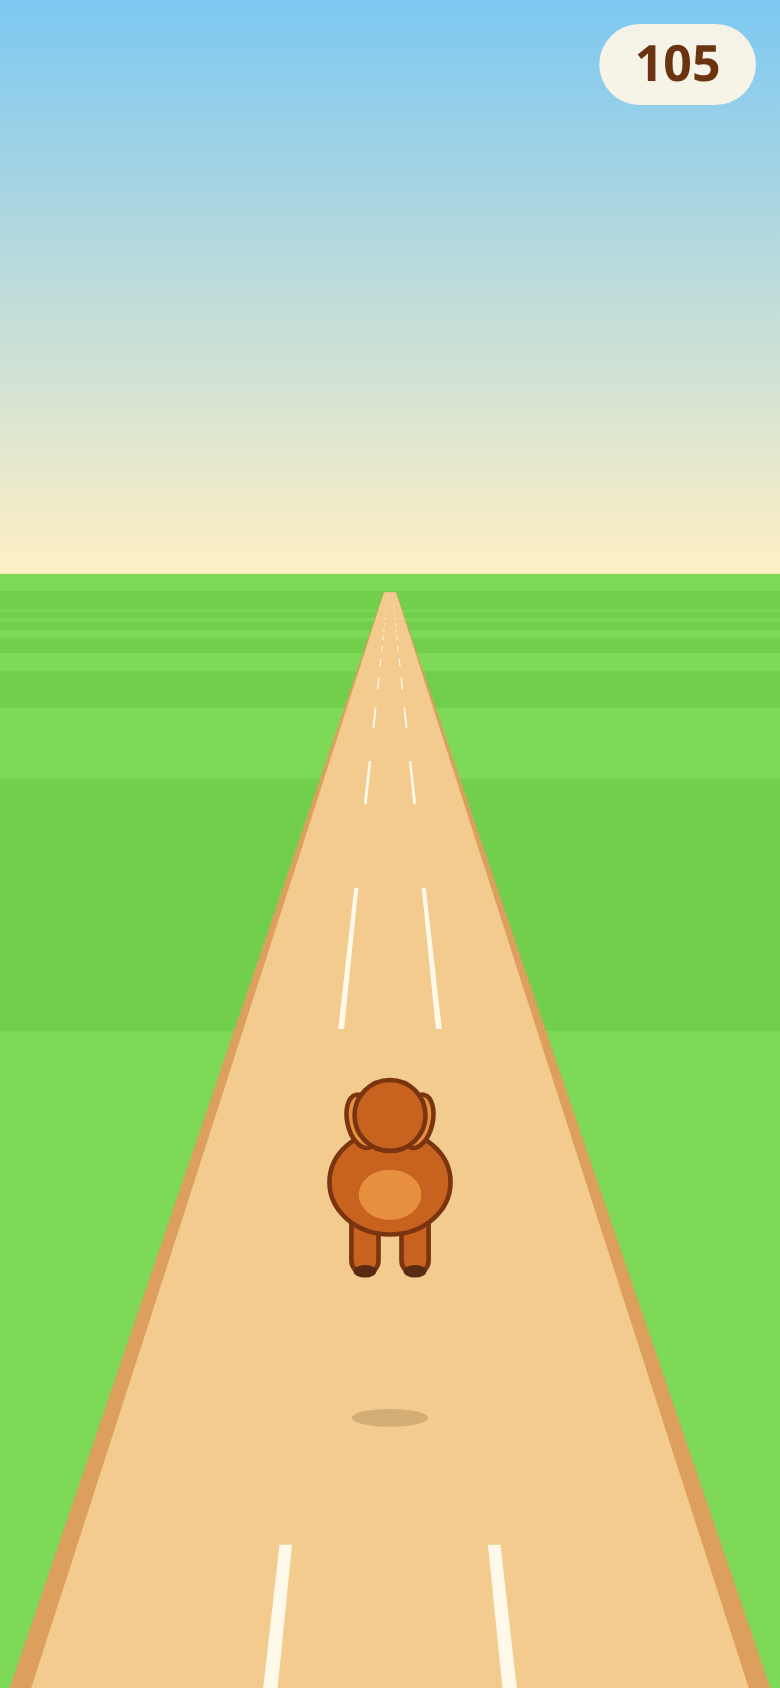
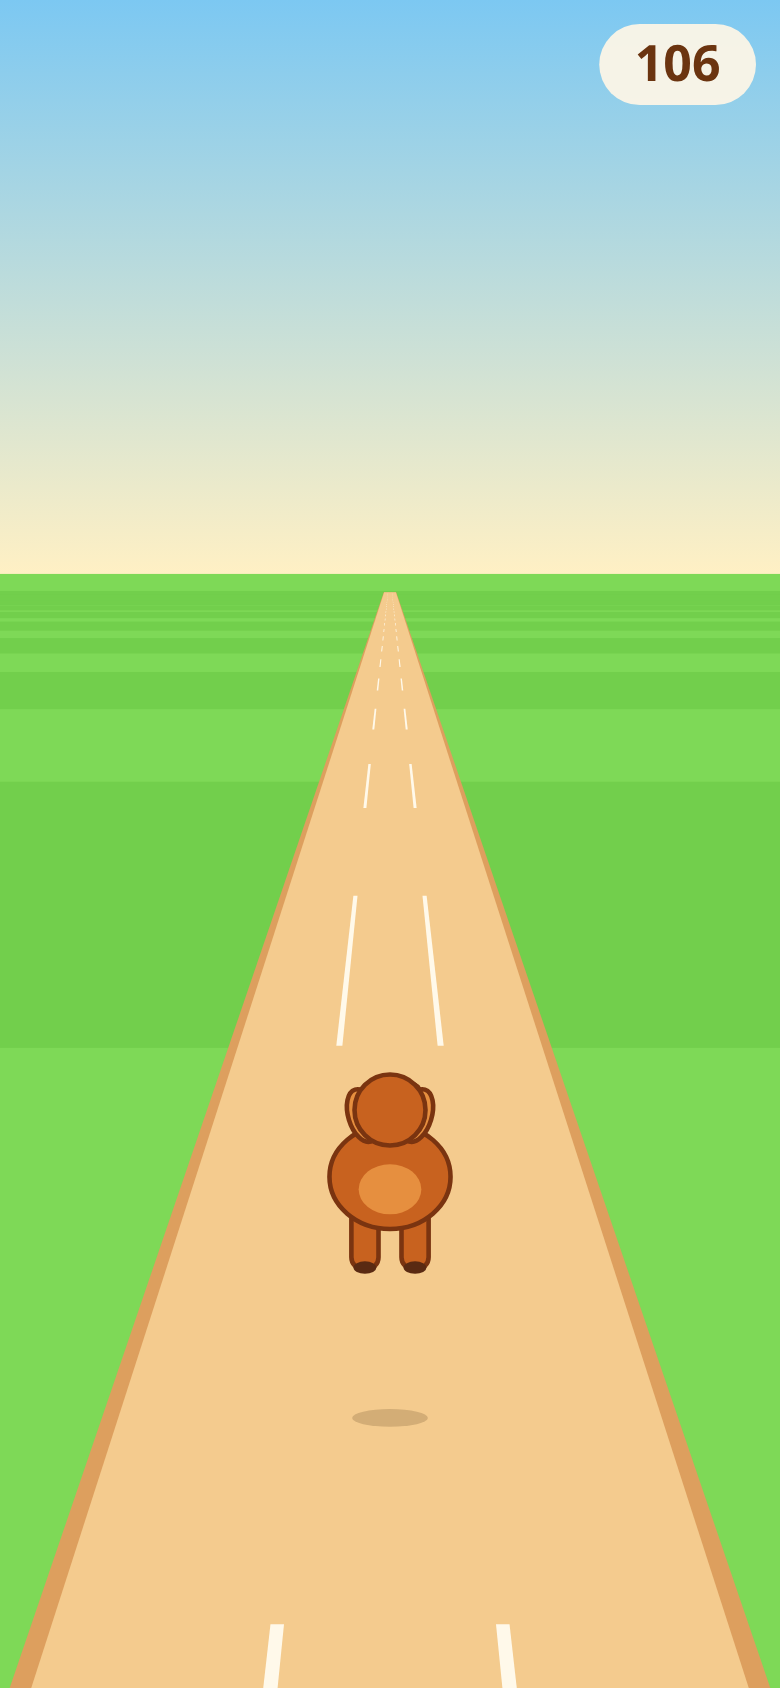
feat: add bone treat lines that add bonus points
Bones spawn in lines of 3-8 in the gaps between obstacle rows, only in
lanes the player can reach, and end early enough to leave the lane
before the next row. Each bone adds 10 points to the live and final
score; counts reset on retry. 90/90 checks pass.

Story: production/epics/caius-run/story-005-treats.md
Design: design/game-brief.md

Claude-Session: https://claude.ai/code/session_018R8R6gKewFaV8M9dz1TTco

diff --git a/src/index.html b/src/index.html
@@ -73,6 +73,18 @@ const CONFIG = {
   spawnAhead: 13,           // rows are generated this far ahead (scale ~0.07, >2 s warning at max speed)
   fadeInDepth: 2,           // obstacles fade in over this much depth after spawning
   despawnBehind: -0.3,      // obstacles are removed once this far behind the camera plane
+  // --- treats (story 005) ---
+  treatLineChance: 0.55,    // chance a gap between two rows gets a bone line
+  treatSpacing: 0.36,       // z between bones in a line
+  treatMinCount: 3,
+  treatMaxCount: 8,
+  treatClearance: 0.35,     // z kept free between a bone and an obstacle row
+  treatValue: 10,           // bonus points per bone
+  treatWidth: 0.36,         // lane widths
+  treatFloat: 0.16,         // hover height, lane widths
+  treatDepth: 0.12,         // pickup depth, z units
+  treatPickupHalfWidth: 0.45, // lane widths
+  treatMissHeight: 0.6,     // jumping higher than this sails over a bone
   // --- score & screens (story 004) ---
   scorePerZ: 10,            // points per z unit travelled (~25/s at start)
   titleScrollFactor: 0.4,   // track drifts at this fraction of base speed behind the title
@@ -138,6 +150,9 @@ const CONFIG = {
     coneStripe: "#fff6e8",
     coneBase: "#d85c1a",
     obstacleOutline: "#5b3415",
+    bone: "#fff4dc",
+    boneShade: "#efd9b0",
+    boneOutline: "#b98a55",
     uiPanel: "#fff6e6",
     uiText: "#6b3410",
     uiTextSoft: "#a0643a",
@@ -192,7 +207,10 @@ function resetRun(seed) {
     grounded: true,
     jumpT: 0,                   // seconds since take-off
     jumpY: 0,                   // height above ground, in lane widths
-    treatPoints: 0,             // bonus points from treats (story 005)
+    treatPoints: 0,             // bonus points from treats
+    treatCount: 0,              // bones collected this run
+    treats: [],                 // { lane, wz } bones not yet collected
+    reach: allLanes(),          // lanes a player can be in after the last spawned row
     seed: s,
     rng: mulberry32(s),
     spawnEnabled: !debug.noSpawn,
@@ -519,6 +537,40 @@ function drawCone(lane, z) {
 
 const OBSTACLE_DRAW = { crate: drawCrate, log: drawLog, cone: drawCone };
 
+/** A floating, gently bobbing bone treat. */
+function drawBone(lane, z, seed) {
+  const C = CONFIG.colors;
+  const p = project(laneToX(lane), z);
+  const u = view.laneW * p.s;
+  const w = CONFIG.treatWidth * u;
+  const bob = Math.sin(state.runPhase * 0.5 + seed * 3) * 0.04 * u;
+  const cy = p.y - CONFIG.treatFloat * u - w * 0.25 + bob;
+  const r = w * 0.17;
+  // shadow
+  ctx.fillStyle = "rgba(60,40,10,0.14)";
+  ctx.beginPath();
+  ctx.ellipse(p.x, p.y, w * 0.38, w * 0.08, 0, 0, Math.PI * 2);
+  ctx.fill();
+  ctx.lineWidth = Math.max(1, u * 0.022);
+  ctx.strokeStyle = C.boneOutline;
+  ctx.fillStyle = C.bone;
+  ctx.beginPath();
+  for (const sx of [-1, 1]) for (const sy of [-1, 1]) {
+    ctx.moveTo(p.x + sx * (w / 2 - r) + r, cy + sy * r * 0.8);
+    ctx.arc(p.x + sx * (w / 2 - r), cy + sy * r * 0.8, r, 0, Math.PI * 2);
+  }
+  ctx.fill();
+  ctx.stroke();
+  roundRectPath(p.x - w / 2 + r, cy - r * 0.75, w - 2 * r, r * 1.5, r * 0.5);
+  ctx.fill();
+  ctx.stroke();
+  // hide the inner outlines where shaft meets knobs
+  ctx.fillStyle = C.bone;
+  ctx.fillRect(p.x - w / 2 + r * 0.9, cy - r * 0.62, w - 1.8 * r, r * 1.24);
+  ctx.fillStyle = C.boneShade;
+  ctx.fillRect(p.x - w / 2 + r * 1.2, cy + r * 0.15, w - 2.4 * r, r * 0.4);
+}
+
 /** Draw one full frame. World objects are painted far to near. */
 function render() {
   drawBackdrop();
@@ -530,6 +582,12 @@ function render() {
     if (z <= 0 || z >= CONFIG.viewDepth) continue;
     const alpha = Math.max(0, Math.min(1, (CONFIG.spawnAhead - z) / CONFIG.fadeInDepth));
     items.push({ z, draw: () => { ctx.globalAlpha = alpha; OBSTACLE_DRAW[o.type](o.lane, z); ctx.globalAlpha = 1; } });
+  }
+  for (const t of state.treats) {
+    const z = t.wz - state.scroll;
+    if (z <= 0 || z >= CONFIG.viewDepth) continue;
+    const alpha = Math.max(0, Math.min(1, (CONFIG.spawnAhead - z) / CONFIG.fadeInDepth));
+    items.push({ z, draw: () => { ctx.globalAlpha = alpha; drawBone(t.lane, z, t.wz); ctx.globalAlpha = 1; } });
   }
   items.push({ z: CONFIG.dogZ, draw: () => drawDog(state.laneVis, CONFIG.dogZ) });
   items.sort((a, b) => b.z - a.z);
@@ -789,6 +847,23 @@ function generateRow(prevPassable, d, rng) {
   return allLanes().map(() => null); // an empty row is always fair
 }
 
+/**
+ * A line of bones in the gap after an obstacle row, in one lane the player can be in.
+ * It starts clear of this row and ends early enough to leave the lane before the
+ * next row (one slide plus reaction margin), so a bone line is a temptation, never a trap.
+ * @returns {{lane:number, wz:number}[]} empty when the gap is too short for the minimum line
+ */
+function generateTreatLine(rowWz, gapZ, lanes, speed, rng) {
+  const start = rowWz + CONFIG.treatClearance;
+  const end = rowWz + gapZ - CONFIG.treatClearance - speed * (CONFIG.laneSlideTime + CONFIG.rowSafetyMargin);
+  const fit = Math.floor((end - start) / CONFIG.treatSpacing) + 1;
+  const max = Math.min(CONFIG.treatMaxCount, fit);
+  if (max < CONFIG.treatMinCount) return [];
+  const n = CONFIG.treatMinCount + Math.floor(rng() * (max - CONFIG.treatMinCount + 1));
+  const lane = lanes[Math.floor(rng() * lanes.length)];
+  return Array.from({ length: n }, (_, i) => ({ lane, wz: start + i * CONFIG.treatSpacing }));
+}
+
 /** Spawn rows up to CONFIG.spawnAhead and drop obstacles that passed the camera. */
 function updateSpawning() {
   if (state.spawnEnabled) {
@@ -796,11 +871,18 @@ function updateSpawning() {
       const d = difficulty(state.speed);
       const row = generateRow(state.prevPassable, d, state.rng);
       row.forEach((type, lane) => { if (type) state.obstacles.push({ type, lane, wz: state.nextRowWz }); });
-      state.prevPassable = passableLanes(row);
-      state.nextRowWz += state.speed * rowGapTime(d);
+      const pass = passableLanes(row);
+      state.prevPassable = pass;
+      state.reach = pass.filter((q) => state.reach.some((p) => Math.abs(p - q) <= CONFIG.laneReach));
+      const gapZ = state.speed * rowGapTime(d);
+      if (state.reach.length > 0 && state.rng() < CONFIG.treatLineChance) {
+        state.treats.push(...generateTreatLine(state.nextRowWz, gapZ, state.reach, state.speed, state.rng));
+      }
+      state.nextRowWz += gapZ;
     }
   }
   state.obstacles = state.obstacles.filter((o) => o.wz - state.scroll > CONFIG.despawnBehind);
+  state.treats = state.treats.filter((t) => t.wz - state.scroll > CONFIG.despawnBehind);
 }
 
 /**
@@ -863,7 +945,23 @@ function canClearLow(type, speed) {
 }
 
 /** Hooks for other systems (screens, juice). */
-const events = { onCrash: [] };
+const events = { onCrash: [], onTreat: [] };
+
+/** Collect bones the dog runs through. A bone never ends the run. */
+function updateTreats() {
+  const keep = [];
+  for (const t of state.treats) {
+    const z = t.wz - state.scroll;
+    const hit = Math.abs(z - CONFIG.dogZ) < (CONFIG.treatDepth + CONFIG.dogDepth) / 2
+      && Math.abs(state.laneVis - t.lane) < CONFIG.treatPickupHalfWidth
+      && state.jumpY < CONFIG.treatMissHeight;
+    if (!hit) { keep.push(t); continue; }
+    state.treatPoints += CONFIG.treatValue;
+    state.treatCount += 1;
+    for (const fn of events.onTreat) fn(t, z);
+  }
+  state.treats = keep;
+}
 
 /** End the run on the first hit. */
 function updateCollision() {
@@ -1073,6 +1171,7 @@ function update(dt) {
   state.runPhase += dt * CONFIG.strideRate * Math.sqrt(state.speed / CONFIG.baseSpeed);
   updateMovement(dt);
   updateSpawning();
+  updateTreats();
   updateCollision();
 }
 
@@ -1098,8 +1197,8 @@ events.onCrash.push(showGameOver);
 // Exposed for debugging and tools/qa checks.
 window.CaiusRun = {
   CONFIG, state, view, events, project, classifyGesture, moveLane, jump, jumpGravity, jumpAirDistance,
-  ui, startRun, currentScore, resetRun, generateRow, isRowFair, passableLanes, fairnessSelfTest, hitTest, canClearLow, speedAt,
-  rowGapTime, minSafeGapTime, mulberry32,
+  ui, startRun, currentScore, resetRun, generateRow, generateTreatLine, isRowFair, passableLanes, fairnessSelfTest, hitTest, canClearLow, speedAt,
+  rowGapTime, minSafeGapTime, mulberry32, _updateSpawning: updateSpawning,
 };
 
 window.addEventListener("resize", resize);

diff --git a/production/epics/caius-run/story-005-treats.md b/production/epics/caius-run/story-005-treats.md
@@ -1,12 +1,12 @@
 # Story 005: Bone treats and bonus points
 
 > **Epic**: Caius Run
-> **Status**: Ready
+> **Status**: Complete
 > **Layer**: Feature
 > **Type**: Logic
 > **Estimate**: M
 > **Manifest Version**: N/A (minimal — no control manifest)
-> **Last Updated**: [set by /dev-story when implementation begins]
+> **Last Updated**: 2026-10-05
 
 ## Context
 
@@ -28,13 +28,13 @@
 
 *From `design/game-brief.md` (the **Player goal & fail state** field + the MVP feature this story implements), scoped to this story:*
 
-- [ ] Bones spawn in lines (about 3–8) along one lane, in the gaps between obstacle rows.
-- [ ] A bone is never placed inside or overlapping an obstacle; every bone line sits in a lane the dog can reach under the story 003 fairness rules.
-- [ ] Lines are placed to tempt a lane change (a line in a lane other than the current safe one) at least some of the time.
-- [ ] Caius collects a bone when lane, depth and height overlap; the bone disappears on pickup.
-- [ ] Each bone adds a bonus (`CONFIG.TREAT_VALUE`) to the score; the live score and final score = distance + treats.
-- [ ] Uncollected bones despawn behind the camera; bones and treat count reset on retry.
-- [ ] Bones scale correctly through the shared projection and are drawn as simple flat vector shapes.
+- [x] Bones spawn in lines (about 3–8) along one lane, in the gaps between obstacle rows.
+- [x] A bone is never placed inside or overlapping an obstacle; every bone line sits in a lane the dog can reach under the story 003 fairness rules.
+- [x] Lines are placed to tempt a lane change (a line in a lane other than the current safe one) at least some of the time.
+- [x] Caius collects a bone when lane, depth and height overlap; the bone disappears on pickup.
+- [x] Each bone adds a bonus (`CONFIG.TREAT_VALUE`) to the score; the live score and final score = distance + treats.
+- [x] Uncollected bones despawn behind the camera; bones and treat count reset on retry.
+- [x] Bones scale correctly through the shared projection and are drawn as simple flat vector shapes.
 
 ---
 
@@ -76,3 +76,12 @@
 
 - Depends on: Story 003, Story 004
 - Unlocks: Story 007
+
+---
+
+## Completion Notes
+**Completed**: 2026-10-05
+**Criteria**: 7/7 passing
+**Deviations**: None. A bone line ends one slide plus reaction margin before the next row, so it never traps the player in a lane about to be blocked.
+**Test Evidence**: Logic: test waived at `qa.level: minimal`; `node tools/qa/cdp-check.mjs treats` 9/9 PASS (3-minute spawner simulation: 114 lines, 0 overlaps with obstacles, lines in all lanes; live pickup, scoring, reset on retry). Log + 3 screenshots in `production/qa/evidence/treats/`.
+**Code Review**: Skipped — solo mode
